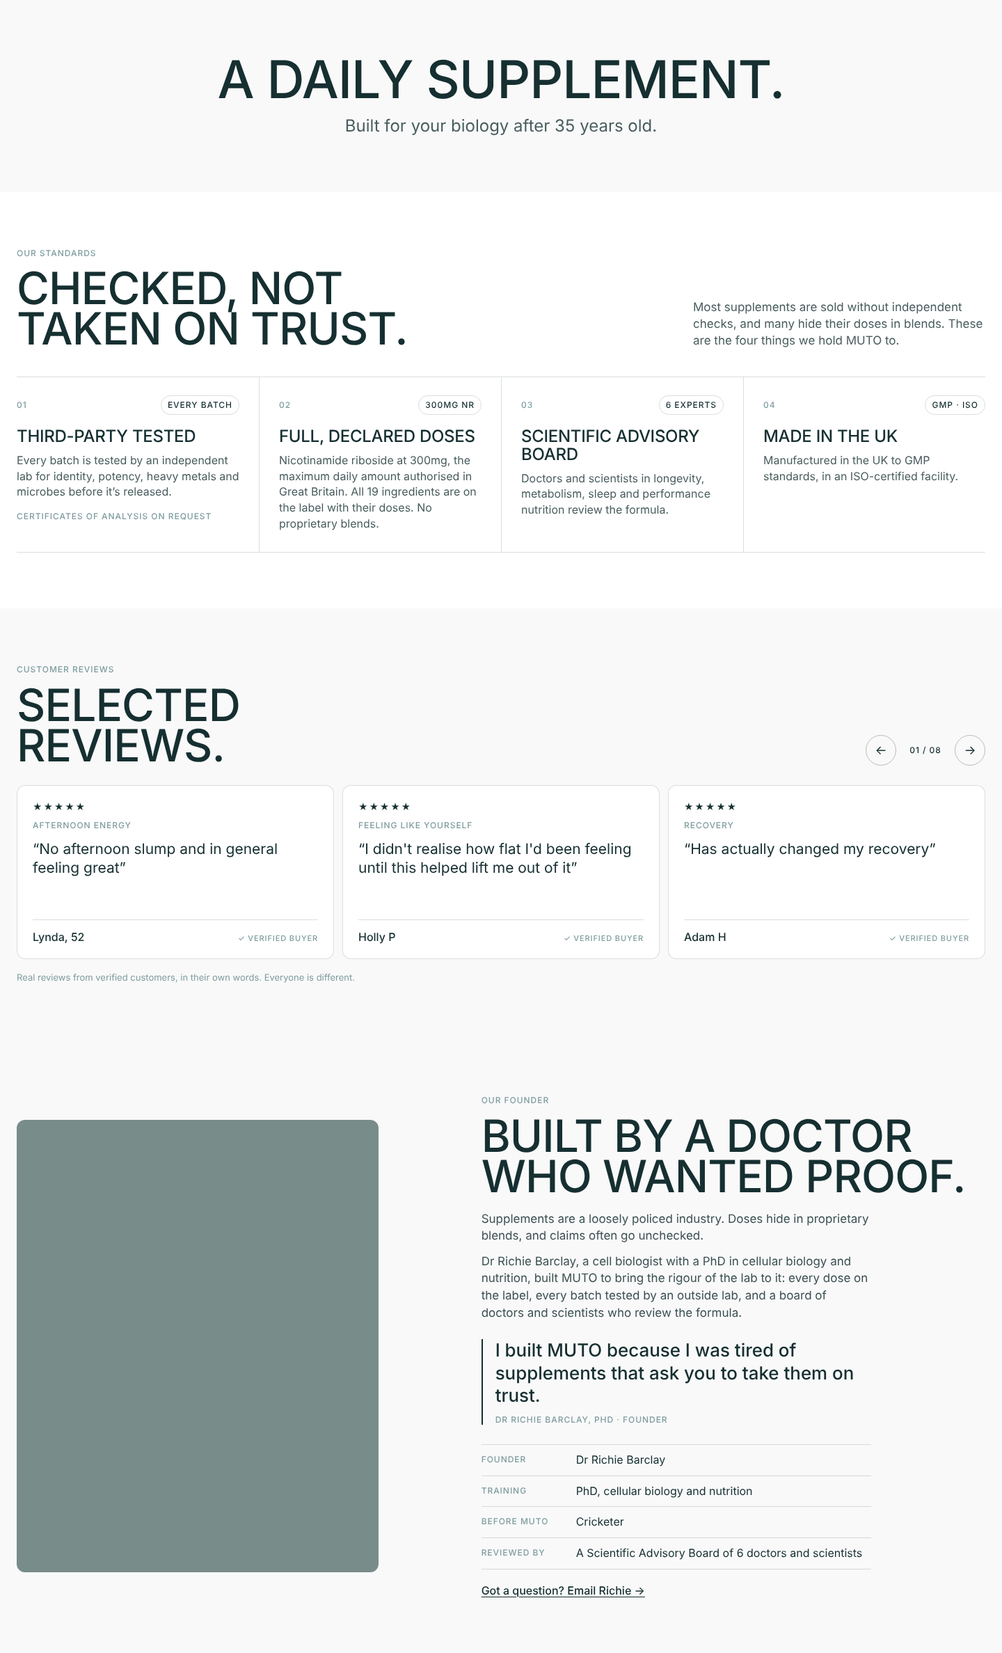
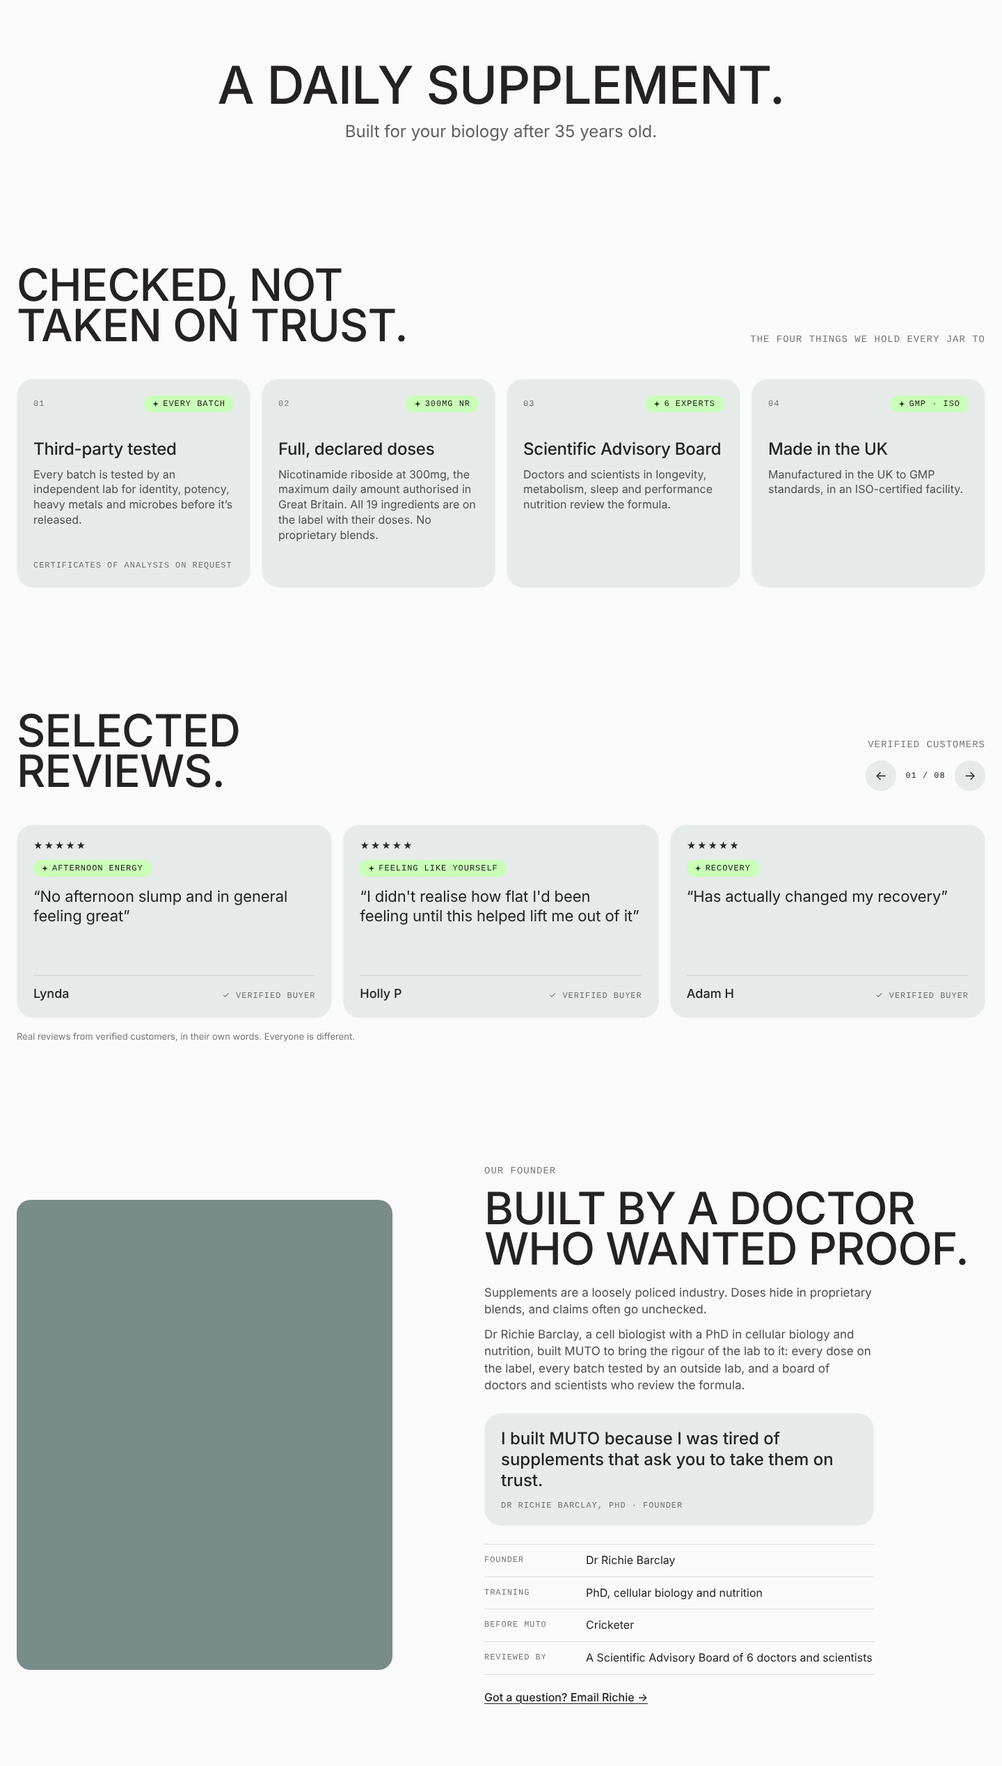
Trust bands: match the page's style and brand palette; statement first, compact board
Sage glass cards, mono notes opposite headings, lime sparkle tags, #242223 ink
on #FAFAFA. Order: buy, statement, board (compact row), standards, videos,
reviews, founder, then the rest.

Claude-Session: https://claude.ai/code/session_01VYMABjkorQn2QmgJS9ckGR

diff --git a/shopify/pdp-trust/theme/assets/muto-crea-trust.css b/shopify/pdp-trust/theme/assets/muto-crea-trust.css
@@ -1,109 +1,114 @@
 /* MUTO — trust bands for the NAD+ product page: statement, standards,
-   rotating reviews and founder. Built on muto-crea.css: same font (Neue Haas
-   Grotesk, --mc-font), inks and spacing model. The clinical register comes
-   from hairline rules, small uppercase labels and numbered items.
+   rotating reviews and founder. Drawn in the page's own language so they sit
+   with the board, results and why bands:
+   - Neue Haas Grotesk (--mc-font) for headings and copy; Sometype Mono
+     (--mc-mono) only for small notes, labels and tags, at the board's sizes.
+   - Heading left, mono note on the right margin (the board/results pattern).
+   - Sage glass cards, 24px radius, inset highlight (the why cards).
+   - Tag pills with the sparkle (.mh__tag), here in brand lime.
+   Brand palette: #FAFAFA ground, #C8D2CF sage, #5EFAFF cyan, #C9FFB7 lime,
+   #F0FF84 yellow, #242223 charcoal ink.
 
-   SPECIFICITY: every rule starts with `html .mc`. Sections further down the
-   page link muto-crea.css again, after this file, and its zero-specificity
-   reset (`.mc :where(p,h2,li…){margin:0;padding:0}`, `.mc{background}`) is
-   (0,1,0) — the same weight as a bare `.mc__x` rule — so a later copy of it
-   would win and strip every margin and padding here. `html .mc .mc__x` is
-   (0,2,1) and holds whatever order the stylesheets arrive in. */
+   SPECIFICITY: every rule starts with `html .mc`. Later sections link
+   muto-crea.css again, after this file, and its zero-specificity reset
+   (`.mc :where(p,h2,li…){margin:0;padding:0}`) would otherwise win and strip
+   the spacing here. */
 
-html .mc--stm,html .mc--std,html .mc--rev,html .mc--fdr{font-family:var(--mc-font);background:var(--mc-ground)}
-html .mc--std{background:#fff}
-html .mc .mc__mono{font-family:var(--mc-font);font-weight:500;font-size:12px;letter-spacing:.08em;text-transform:uppercase;line-height:1.3}
+html .mc--stm,html .mc--std,html .mc--rev,html .mc--fdr{
+  --mt-ink:#242223;--mt-ground:#fafafa;--mt-sage:rgba(200,210,207,.4);--mt-sage-solid:#c8d2cf;
+  --mt-lime:#c9ffb7;--mt-cyan:#5efaff;--mt-muted:rgba(36,34,35,.62);--mt-hair:rgba(36,34,35,.14);
+  font-family:var(--mc-font);color:var(--mt-ink);background:var(--mt-ground)}
 
-html .mc .mc__trust-link{display:inline-flex;gap:.4em;margin-top:20px;font-weight:500;font-size:16px;color:var(--mc-ink);text-decoration:underline;text-underline-offset:3px;text-decoration-thickness:1px}
+/* --- Shared pieces ------------------------------------------------------- */
+html .mc .mc__trust-top{display:flex;flex-direction:column;gap:14px;margin:0 0 28px}
+html .mc .mc__trust-note{margin:0;font-family:var(--mc-mono);font-size:14px;font-weight:500;line-height:1.2;letter-spacing:.07em;text-transform:uppercase;color:var(--mt-muted)}
+html .mc .mc__trust-label{font-family:var(--mc-mono);font-size:12px;font-weight:500;line-height:1.2;letter-spacing:.08em;text-transform:uppercase;color:var(--mt-muted)}
+html .mc .mc__trust-tag{display:inline-flex;align-items:center;gap:6px;align-self:flex-start;margin:0;padding:5px 12px;border-radius:999px;background:var(--mt-lime);color:var(--mt-ink);font-family:var(--mc-mono);font-size:12px;font-weight:500;line-height:1.2;letter-spacing:.08em;text-transform:uppercase;white-space:nowrap}
+html .mc .mc__trust-spark{flex:0 0 auto;width:9px;height:9px;background:currentColor;clip-path:polygon(50% 0%,61% 39%,100% 50%,61% 61%,50% 100%,39% 61%,0% 50%,39% 39%)}
+html .mc .mc__trust-card{border-radius:24px;background:var(--mt-sage);box-shadow:inset 0 0 0 1px rgba(249,249,249,.45);backdrop-filter:blur(24px);-webkit-backdrop-filter:blur(24px)}
+html .mc .mc__trust-link{display:inline-flex;gap:.4em;margin-top:22px;font-weight:500;font-size:16px;color:var(--mt-ink);text-decoration:underline;text-underline-offset:3px;text-decoration-thickness:1px}
 html .mc .mc__trust-link:hover{opacity:.75}
-html .mc .mc__trust-link:focus-visible,html .mc .mc__rev-btn:focus-visible,html .mc .mc__rev-rail:focus-visible{outline:2px solid var(--mc-ink);outline-offset:3px}
+html .mc .mc__trust-link:focus-visible,html .mc .mc__rev-btn:focus-visible,html .mc .mc__rev-rail:focus-visible{outline:2px solid var(--mt-ink);outline-offset:3px}
+@media (min-width:750px){
+  html .mc .mc__trust-top{flex-direction:row;justify-content:space-between;align-items:flex-end;gap:32px;margin-bottom:48px}
+  html .mc .mc__trust-note{text-align:right;max-width:360px}
+}
 
-/* Shared band spacing: 56px on phones, 80px from 990px. Neighbouring theme
-   bands bring their own padding, so this is deliberately tighter than theirs. */
+/* Band spacing: 56px on phones, 88px from 990px, scaled by the editor's
+   Space above / below. */
 html .mc .mc__stm,html .mc .mc__std,html .mc .mc__rev,html .mc .mc__fdr{
   padding-top:calc(56px*var(--mc-spt,1));padding-bottom:calc(56px*var(--mc-spb,1))}
 @media (min-width:990px){
   html .mc .mc__stm,html .mc .mc__std,html .mc .mc__rev,html .mc .mc__fdr{
-    padding-top:calc(80px*var(--mc-spt,1));padding-bottom:calc(80px*var(--mc-spb,1))}
+    padding-top:calc(88px*var(--mc-spt,1));padding-bottom:calc(88px*var(--mc-spb,1))}
 }
-
-/* Small label above each band heading. */
-html .mc .mc__std-eyebrow,html .mc .mc__rev-eyebrow,html .mc .mc__fdr-eyebrow,html .mc .mc__stm-label{margin:0 0 14px;color:var(--mc-muted)}
 
 /* --- Statement ----------------------------------------------------------- */
-html .mc .mc__stm{text-align:center;max-width:980px;margin:0 auto}
+html .mc .mc__stm{text-align:center;max-width:1000px;margin:0 auto}
+html .mc .mc__stm-label{display:block;margin:0 0 16px}
 html .mc .mc__stm-head{font-size:clamp(36px,5.2vw,76px)}
-html .mc .mc__stm-sub{margin:18px 0 0;font-size:clamp(18px,1.67vw,24px);line-height:1.25;color:rgba(22,47,49,.78)}
+html .mc .mc__stm-sub{margin:18px 0 0;font-size:clamp(18px,1.67vw,24px);line-height:1.25;color:rgba(36,34,35,.72)}
 
-/* --- Standards ----------------------------------------------------------- */
-html .mc .mc__std-top{display:grid;gap:16px;margin:0 0 32px}
-html .mc .mc__std-lede{margin:0;font-size:17px;line-height:1.4;max-width:420px;color:rgba(22,47,49,.8)}
-html .mc .mc__std-list{display:grid;grid-template-columns:1fr;margin:0;padding:0;list-style:none;border-top:1px solid var(--mc-hair)}
-html .mc .mc__std-item{display:flex;flex-direction:column;margin:0;padding:22px 0 26px;border-bottom:1px solid var(--mc-hair)}
-html .mc .mc__std-meta{display:flex;align-items:center;justify-content:space-between;gap:12px;margin:0 0 18px}
-html .mc .mc__std-num{color:var(--mc-muted)}
-html .mc .mc__std-stat{display:inline-block;padding:5px 9px;border:1px solid var(--mc-hair);border-radius:999px;color:var(--mc-ink);white-space:nowrap}
-html .mc .mc__std-title{margin:0 0 10px;font-size:clamp(20px,1.67vw,24px);line-height:1.08}
-html .mc .mc__std-text{margin:0;font-size:16px;line-height:1.42;color:rgba(22,47,49,.8)}
+/* --- Standards: four sage glass cards ------------------------------------ */
+html .mc .mc__std-list{display:grid;grid-template-columns:1fr;gap:12px;margin:0;padding:0;list-style:none}
+html .mc .mc__std-item{display:flex;flex-direction:column;margin:0;padding:24px;border-radius:24px;background:var(--mt-sage);box-shadow:inset 0 0 0 1px rgba(249,249,249,.45)}
+html .mc .mc__std-meta{display:flex;align-items:center;justify-content:space-between;gap:12px;margin:0 0 40px}
+html .mc .mc__std-title{margin:0 0 12px;font-family:var(--mc-font);font-weight:500;font-size:24px;line-height:1.1;letter-spacing:-.01em;text-transform:none;color:var(--mt-ink)}
+html .mc .mc__std-text{margin:0;font-size:16px;line-height:1.36;color:rgba(36,34,35,.78)}
 html .mc .mc__std-text > * + *{margin-top:10px}
-html .mc .mc__std-note{margin:16px 0 0;color:var(--mc-muted)}
-html .mc .mc__std-foot{margin:20px 0 0;font-size:13px;color:var(--mc-muted)}
+html .mc .mc__std-note{margin:auto 0 0;padding-top:20px}
+html .mc .mc__std-item .mc__trust-link{margin-top:auto;padding-top:20px}
+html .mc .mc__std-foot{margin:20px 0 0;font-size:13px;color:var(--mt-muted)}
 @media (min-width:750px){
-  html .mc .mc__std-top{grid-template-columns:minmax(0,1fr) minmax(0,420px);align-items:end;gap:40px;margin-bottom:40px}
-  html .mc .mc__std-list{grid-template-columns:repeat(2,minmax(0,1fr));column-gap:40px}
+  html .mc .mc__std-list{grid-template-columns:repeat(2,minmax(0,1fr))}
 }
 @media (min-width:1100px){
-  html .mc .mc__std-list{grid-template-columns:repeat(4,minmax(0,1fr));column-gap:0;border-bottom:1px solid var(--mc-hair)}
-  html .mc .mc__std-item{padding:26px 28px 30px;border-bottom:0;border-left:1px solid var(--mc-hair)}
-  html .mc .mc__std-item:first-child{padding-left:0;border-left:0}
-  html .mc .mc__std-item:last-child{padding-right:0}
+  html .mc .mc__std-list{grid-template-columns:repeat(4,minmax(0,1fr));gap:16px}
+  html .mc .mc__std-item{min-height:300px}
 }
 
 /* --- Rotating reviews ---------------------------------------------------- */
-html .mc .mc__rev-top{display:grid;gap:18px;margin:0 0 28px}
-html .mc .mc__rev-side{display:flex;flex-direction:column;gap:12px}
+html .mc .mc__rev-side{display:flex;flex-direction:column;gap:14px}
 html .mc .mc__rev-summary{margin:0;font-size:16px}
-html .mc .mc__rev-stars{margin:0;color:var(--mc-ink);letter-spacing:.14em;font-size:13px;line-height:1}
+html .mc .mc__rev-stars{margin:0;color:var(--mt-ink);letter-spacing:.14em;font-size:13px;line-height:1}
 html .mc .mc__rev-nav{display:flex;align-items:center;gap:12px}
 html .mc .mc__rev-nav[hidden]{display:none}
-html .mc .mc__rev-btn{appearance:none;-webkit-appearance:none;display:inline-flex;align-items:center;justify-content:center;width:44px;height:44px;padding:0;border-radius:50%;border:1px solid var(--mc-rule);background:transparent;color:var(--mc-ink);font-family:var(--mc-font);font-size:18px;line-height:1;cursor:pointer;transition:background var(--mc-dur) var(--mc-ease)}
-html .mc .mc__rev-btn:hover{background:var(--mc-sage)}
-html .mc .mc__rev-count{margin:0;min-width:60px;text-align:center;color:var(--mc-ink)}
+html .mc .mc__rev-btn{appearance:none;-webkit-appearance:none;display:inline-flex;align-items:center;justify-content:center;width:44px;height:44px;padding:0;border:0;border-radius:50%;background:var(--mt-sage);color:var(--mt-ink);font-family:var(--mc-font);font-size:18px;line-height:1;cursor:pointer;transition:background var(--mc-dur) var(--mc-ease)}
+html .mc .mc__rev-btn:hover{background:var(--mt-cyan)}
+html .mc .mc__rev-count{margin:0;min-width:60px;text-align:center;color:var(--mt-ink)}
 html .mc .mc__rev-rail{display:grid;grid-auto-flow:column;grid-auto-columns:84%;column-gap:12px;overflow-x:auto;scroll-snap-type:x mandatory;list-style:none;margin:0 calc(-1*var(--mc-gutter));padding:0 var(--mc-gutter);scroll-padding:0 var(--mc-gutter)}
-html .mc .mc__rev-card{scroll-snap-align:start;display:flex;flex-direction:column;gap:12px;margin:0;padding:24px 22px 20px;min-height:250px;background:#fff;border:1px solid var(--mc-hair);border-radius:12px}
-html .mc .mc__rev-topic{margin:0;color:var(--mc-muted)}
-html .mc .mc__rev-quote{flex:1;margin:0;padding:0;font-size:19px;line-height:1.32}
-html .mc .mc__rev-who{display:flex;flex-wrap:wrap;justify-content:space-between;align-items:baseline;gap:6px 12px;margin:0;padding-top:14px;border-top:1px solid var(--mc-hair)}
-html .mc .mc__rev-name{font-weight:500;font-size:16px}
-html .mc .mc__rev-ver{font-size:11px;color:var(--mc-muted)}
-html .mc .mc__rev-foot{margin:18px 0 0;font-size:13px;color:var(--mc-muted)}
+html .mc .mc__rev-card{scroll-snap-align:start;display:flex;flex-direction:column;gap:14px;margin:0;padding:24px;min-height:260px;border-radius:24px;background:var(--mt-sage);box-shadow:inset 0 0 0 1px rgba(249,249,249,.45)}
+html .mc .mc__rev-quote{flex:1;margin:0;padding:0;font-size:20px;line-height:1.28;letter-spacing:-.005em}
+html .mc .mc__rev-who{display:flex;flex-wrap:wrap;justify-content:space-between;align-items:baseline;gap:6px 12px;margin:0;padding-top:14px;border-top:1px solid var(--mt-hair)}
+html .mc .mc__rev-name{font-weight:500;font-size:18px}
+html .mc .mc__rev-foot{margin:18px 0 0;font-size:13px;color:var(--mt-muted)}
 @media (min-width:750px){
-  html .mc .mc__rev-top{grid-template-columns:minmax(0,1fr) auto;align-items:end}
   html .mc .mc__rev-side{align-items:flex-end}
   html .mc .mc__rev-rail{grid-auto-columns:calc((100% - 24px)/2.2)}
 }
 @media (min-width:1100px){
-  html .mc .mc__rev-rail{grid-auto-columns:calc((100% - 24px)/3);margin:0;padding:0;scroll-padding:0}
-  html .mc .mc__rev-quote{font-size:21px}
+  html .mc .mc__rev-rail{grid-auto-columns:calc((100% - 32px)/3);column-gap:16px;margin:0;padding:0;scroll-padding:0}
+  html .mc .mc__rev-quote{font-size:22px}
 }
 
 /* --- Founder ------------------------------------------------------------- */
 html .mc .mc__fdr{display:grid;gap:28px}
 /* muto-image draws an absolutely positioned slot, so the frame carries the
-   ratio and the positioning context. Without it the photo escapes the column. */
-html .mc .mc__fdr-frame{position:relative;width:100%;aspect-ratio:4/5;overflow:hidden;border-radius:12px;background:var(--mc-sage)}
+   ratio and the positioning context; without it the photo escapes the column. */
+html .mc .mc__fdr-frame{position:relative;width:100%;aspect-ratio:4/5;overflow:hidden;border-radius:20px;background:var(--mt-sage)}
 html .mc .mc__fdr-frame .mh__img{width:100%;height:100%;object-fit:cover;object-position:var(--mh-pos,50% 50%)}
-html .mc .mc__fdr-caption{margin:10px 0 0;color:var(--mc-muted)}
-html .mc .mc__fdr-text{margin:20px 0 0;font-size:17px;line-height:1.45;color:rgba(22,47,49,.85);max-width:560px}
+html .mc .mc__fdr-caption{margin:10px 0 0}
+html .mc .mc__fdr-eyebrow{display:block;margin:0 0 16px;font-size:14px;letter-spacing:.07em}
+html .mc .mc__fdr-text{margin:22px 0 0;font-size:17px;line-height:1.42;color:rgba(36,34,35,.8);max-width:560px}
 html .mc .mc__fdr-text > * + *{margin-top:12px}
-html .mc .mc__fdr-quote{margin:26px 0 0;padding:0 0 0 18px;border-left:2px solid var(--mc-ink);max-width:560px}
-html .mc .mc__fdr-quote blockquote{margin:0;padding:0;font-size:clamp(20px,1.8vw,26px);line-height:1.25;font-weight:500}
-html .mc .mc__fdr-quote figcaption{margin:10px 0 0;color:var(--mc-muted)}
-html .mc .mc__fdr-facts{margin:28px 0 0;padding:0;border-top:1px solid var(--mc-hair);max-width:560px}
-html .mc .mc__fdr-fact{display:grid;grid-template-columns:120px minmax(0,1fr);gap:16px;margin:0;padding:11px 0;border-bottom:1px solid var(--mc-hair)}
-html .mc .mc__fdr-fact dt{margin:0;padding-top:2px;color:var(--mc-muted)}
+html .mc .mc__fdr-quote{margin:28px 0 0;padding:22px 24px;max-width:560px;border-radius:24px;background:var(--mt-sage);box-shadow:inset 0 0 0 1px rgba(249,249,249,.45)}
+html .mc .mc__fdr-quote blockquote{margin:0;padding:0;font-size:clamp(20px,1.8vw,24px);line-height:1.25;font-weight:500}
+html .mc .mc__fdr-quote figcaption{margin:14px 0 0}
+html .mc .mc__fdr-facts{margin:26px 0 0;padding:0;border-top:1px solid var(--mt-hair);max-width:560px}
+html .mc .mc__fdr-fact{display:grid;grid-template-columns:130px minmax(0,1fr);gap:16px;margin:0;padding:12px 0;border-bottom:1px solid var(--mt-hair)}
+html .mc .mc__fdr-fact dt{margin:0;padding-top:3px}
 html .mc .mc__fdr-fact dd{margin:0;font-size:16px;line-height:1.35}
 @media (min-width:990px){
-  html .mc .mc__fdr{grid-template-columns:minmax(0,5fr) minmax(0,6fr);gap:64px;align-items:center}
-  html .mc .mc__fdr-media{max-width:520px}
+  html .mc .mc__fdr{grid-template-columns:minmax(0,5fr) minmax(0,6fr);gap:72px;align-items:center}
+  html .mc .mc__fdr-media{max-width:540px}
 }

diff --git a/shopify/pdp-trust/mock.py b/shopify/pdp-trust/mock.py
@@ -1,0 +1,23 @@
+import json,html,sys
+sp=sys.argv[1]
+c=open('theme/templates/product.muto-nad-45.json').read(); d=json.loads(c[c.index('{'):]); S=d['sections']
+e=html.escape; br=lambda s:e(s).replace('\n','<br>')
+SPK='<span class="mc__trust-spark"></span>'
+out=[]
+st=S['statement']['settings']
+out.append(f'<div class="mc mc--stm"><div class="mc__wrap"><section class="mc__stm"><h2 class="mc__h2 mc__stm-head">{br(st["heading"])}</h2><p class="mc__stm-sub">{e(st["sub"])}</p></section></div></div>')
+s=S['standards']; ss=s['settings']; items=''
+for i,k in enumerate(s['block_order'],1):
+    b=s['blocks'][k]['settings']
+    tail=(f'<p class="mc__trust-label mc__std-note">{b["no_link_note"]}</p>' if b['no_link_note'] and not b['link'] else '')
+    items+=f'<li class="mc__std-item"><div class="mc__std-meta"><span class="mc__trust-label mc__std-num">0{i}</span><span class="mc__trust-tag">{SPK}{e(b["stat"])}</span></div><h3 class="mc__std-title">{e(b["title"])}</h3><div class="mc__rt mc__std-text">{b["text"]}</div>{tail}</li>'
+out.append(f'<div class="mc mc--std"><div class="mc__wrap"><section class="mc__std"><div class="mc__trust-top"><h2 class="mc__h2">{br(ss["heading"])}</h2><p class="mc__trust-note">{e(ss["lede"])}</p></div><ol class="mc__std-list">{items}</ol></section></div></div>')
+r=S['reviews_top']; rs=r['settings']; cards=''
+for k in r['block_order']:
+    b=r['blocks'][k]['settings']
+    cards+=f'<li class="mc__rev-card"><p class="mc__rev-stars">★★★★★</p><p class="mc__trust-tag mc__rev-topic">{SPK}{e(b["topic"])}</p><blockquote class="mc__rev-quote">“{e(b["quote"])}”</blockquote><p class="mc__rev-who"><span class="mc__rev-name">{e(b["name"])}</span><span class="mc__trust-label mc__rev-ver">✓ Verified buyer</span></p></li>'
+out.append(f'<div class="mc mc--rev"><div class="mc__wrap"><section class="mc__rev"><div class="mc__trust-top"><h2 class="mc__h2">{br(rs["heading"])}</h2><div class="mc__rev-side"><p class="mc__trust-note">{e(rs["eyebrow"])}</p><div class="mc__rev-nav"><button class="mc__rev-btn">←</button><p class="mc__trust-label mc__rev-count">01 / 0{len(r["block_order"])}</p><button class="mc__rev-btn">→</button></div></div></div><ul class="mc__rev-rail mc__rail">{cards}</ul><p class="mc__rev-foot">{e(rs["foot"])}</p></section></div></div>')
+f=S['founder']; fs=f['settings']; facts=''.join(f'<div class="mc__fdr-fact"><dt class="mc__trust-label">{e(f["blocks"][k]["settings"]["label"])}</dt><dd>{e(f["blocks"][k]["settings"]["value"])}</dd></div>' for k in f['block_order'])
+out.append(f'<div class="mc mc--fdr"><div class="mc__wrap"><section class="mc__fdr"><div class="mc__fdr-media"><div class="mc__fdr-frame"><div class="mh__slot"><img class="mh__img" src="portrait.jpg" alt=""></div></div></div><div class="mc__fdr-copy"><p class="mc__trust-label mc__fdr-eyebrow">{fs["eyebrow"]}</p><h2 class="mc__h2 mc__fdr-head">{br(fs["heading"])}</h2><div class="mc__rt mc__fdr-text">{fs["text"]}</div><figure class="mc__fdr-quote"><blockquote>{e(fs["quote"])}</blockquote><figcaption class="mc__trust-label">{e(fs["quote_by"])}</figcaption></figure><dl class="mc__fdr-facts">{facts}</dl><a class="mc__trust-link" href="#">{fs["link_label"]} →</a></div></section></div></div>')
+crea=open(sp+'/muto-crea.css').read(); css=crea+open('theme/assets/muto-crea-trust.css').read()+open(sp+'/muto-home.css').read()+crea
+open(sp+'/mock.html','w').write(f'<!doctype html><meta charset=utf-8><meta name=viewport content="width=device-width"><style>body{{margin:0}}{css}</style>'+''.join(out))

diff --git a/shopify/pdp-trust/make_trust.py b/shopify/pdp-trust/make_trust.py
@@ -49,9 +49,8 @@ def standards():
             "link_label": link_label, "link": link, "no_link_note": note}}
         order.append(key)
     return {"type": "muto-crea-standards", "blocks": blocks, "block_order": order, "settings": {
-        "eyebrow": "Our standards",
         "heading": "Checked, not\ntaken on trust.",
-        "lede": "Most supplements are sold without independent checks, and many hide their doses in blends. These are the four things we hold MUTO to.",
+        "lede": "The four things we hold every jar to",
         "foot": "",
         "space_top": 100, "space_bottom": 100}}
 
@@ -78,7 +77,7 @@ def reviews():
             "topic": topic, "quote": quote, "name": name, "age": age, "verified": True}}
         order.append(k)
     return {"type": "muto-crea-reviews", "blocks": blocks, "block_order": order, "settings": {
-        "eyebrow": "Customer reviews",
+        "eyebrow": "Verified customers",
         "heading": "Selected\nreviews.",
         "summary": "",  # e.g. "4.8 from 412 reviews": the live REVIEWS.io figure
         "interval": 6, "min_age": 30, "require_age": False,
@@ -124,6 +123,8 @@ def clinical(d):
     b = S["board"]["settings"]
     b["heading"] = "Scientific\nAdvisory Board."
     b["note"] = "Six doctors and scientists who review the formula."
+    b["compact"] = True       # the thin one-row strip: all six across on desktop, small swipeable cards on phones
+    b["space_top"] = 60       # sits straight under the statement band
 
     st = S["steps"]
     st["settings"]["heading"] = "A 90-day protocol."
@@ -176,12 +177,12 @@ def main():
 
     d["order"] = [
         "buy",
-        "standards",        # our greatest asset, straight under the buy box
-        "results",          # customer videos, 9:16
-        "reviews_top",      # 20 rotating written reviews
-        "founder",
-        "board",
         "statement",        # "A daily supplement. Built for your biology after 35 years old."
+        "board",            # Scientific Advisory Board, compact row
+        "standards",
+        "results",          # customer videos, 9:16
+        "reviews_top",      # up to 20 rotating written reviews
+        "founder",
         "problem", "benefits", "steps", "guarantee", "why", "compare", "faq",
         "custom_reviews_KpXTpD", "sticky", "easy_read",
     ]

diff --git a/shopify/pdp-trust/README.md b/shopify/pdp-trust/README.md
@@ -17,15 +17,17 @@ All four sections are new names, so nothing on live is overwritten except the te
 | # | Band | Status |
 |---|---|---|
 | 1 | Buy box | unchanged |
-| 2 | **Our standards**: third-party tested, 300mg NR + declared doses, Scientific Advisory Board, UK made GMP · ISO | new |
-| 3 | Customer videos, 9:16 (existing "results" band) | retitled "Customer reports." |
-| 4 | **Rotating reviews** ("Selected reviews."): up to 20 hand-picked written reviews, name + age, auto-advance every 6s | new |
-| 5 | **Founder**: Dr Richie Barclay, PhD | new |
-| 6 | Scientific Advisory Board | retitled |
-| 7 | **Statement**: "A daily supplement." / "Built for your biology after 35 years old." | new |
+| 2 | **Statement**: "A daily supplement." / "Built for your biology after 35 years old." | new |
+| 3 | Scientific Advisory Board, now the **compact row** (all six across on desktop) | retitled |
+| 4 | **Our standards**: four sage cards (third-party tested, 300mg NR + declared doses, advisory board, UK made GMP · ISO) | new |
+| 5 | Customer videos, 9:16 (existing "results" band) | retitled "Customer reports." |
+| 6 | **Rotating reviews** ("Selected reviews."): up to 20 hand-picked reviews, name + age, auto-advance every 6s | new |
+| 7 | **Founder**: Dr Richie Barclay, PhD | new |
 | 8+ | Problem, benefits, 90-day steps, guarantee, compare, FAQ, REVIEWS.io widget | copy tightened |
 
 The old "Why people trust MUTO" three-card band is **hidden, not deleted** (founder and standards now cover it).
+
+The new bands use the page's own patterns (sage glass cards, mono notes opposite the heading, sparkle tag pills) in the brand palette: #FAFAFA, #C8D2CF, #5EFAFF, #C9FFB7, #F0FF84, #242223.
 
 ## More clinical copy (light touch)
 
